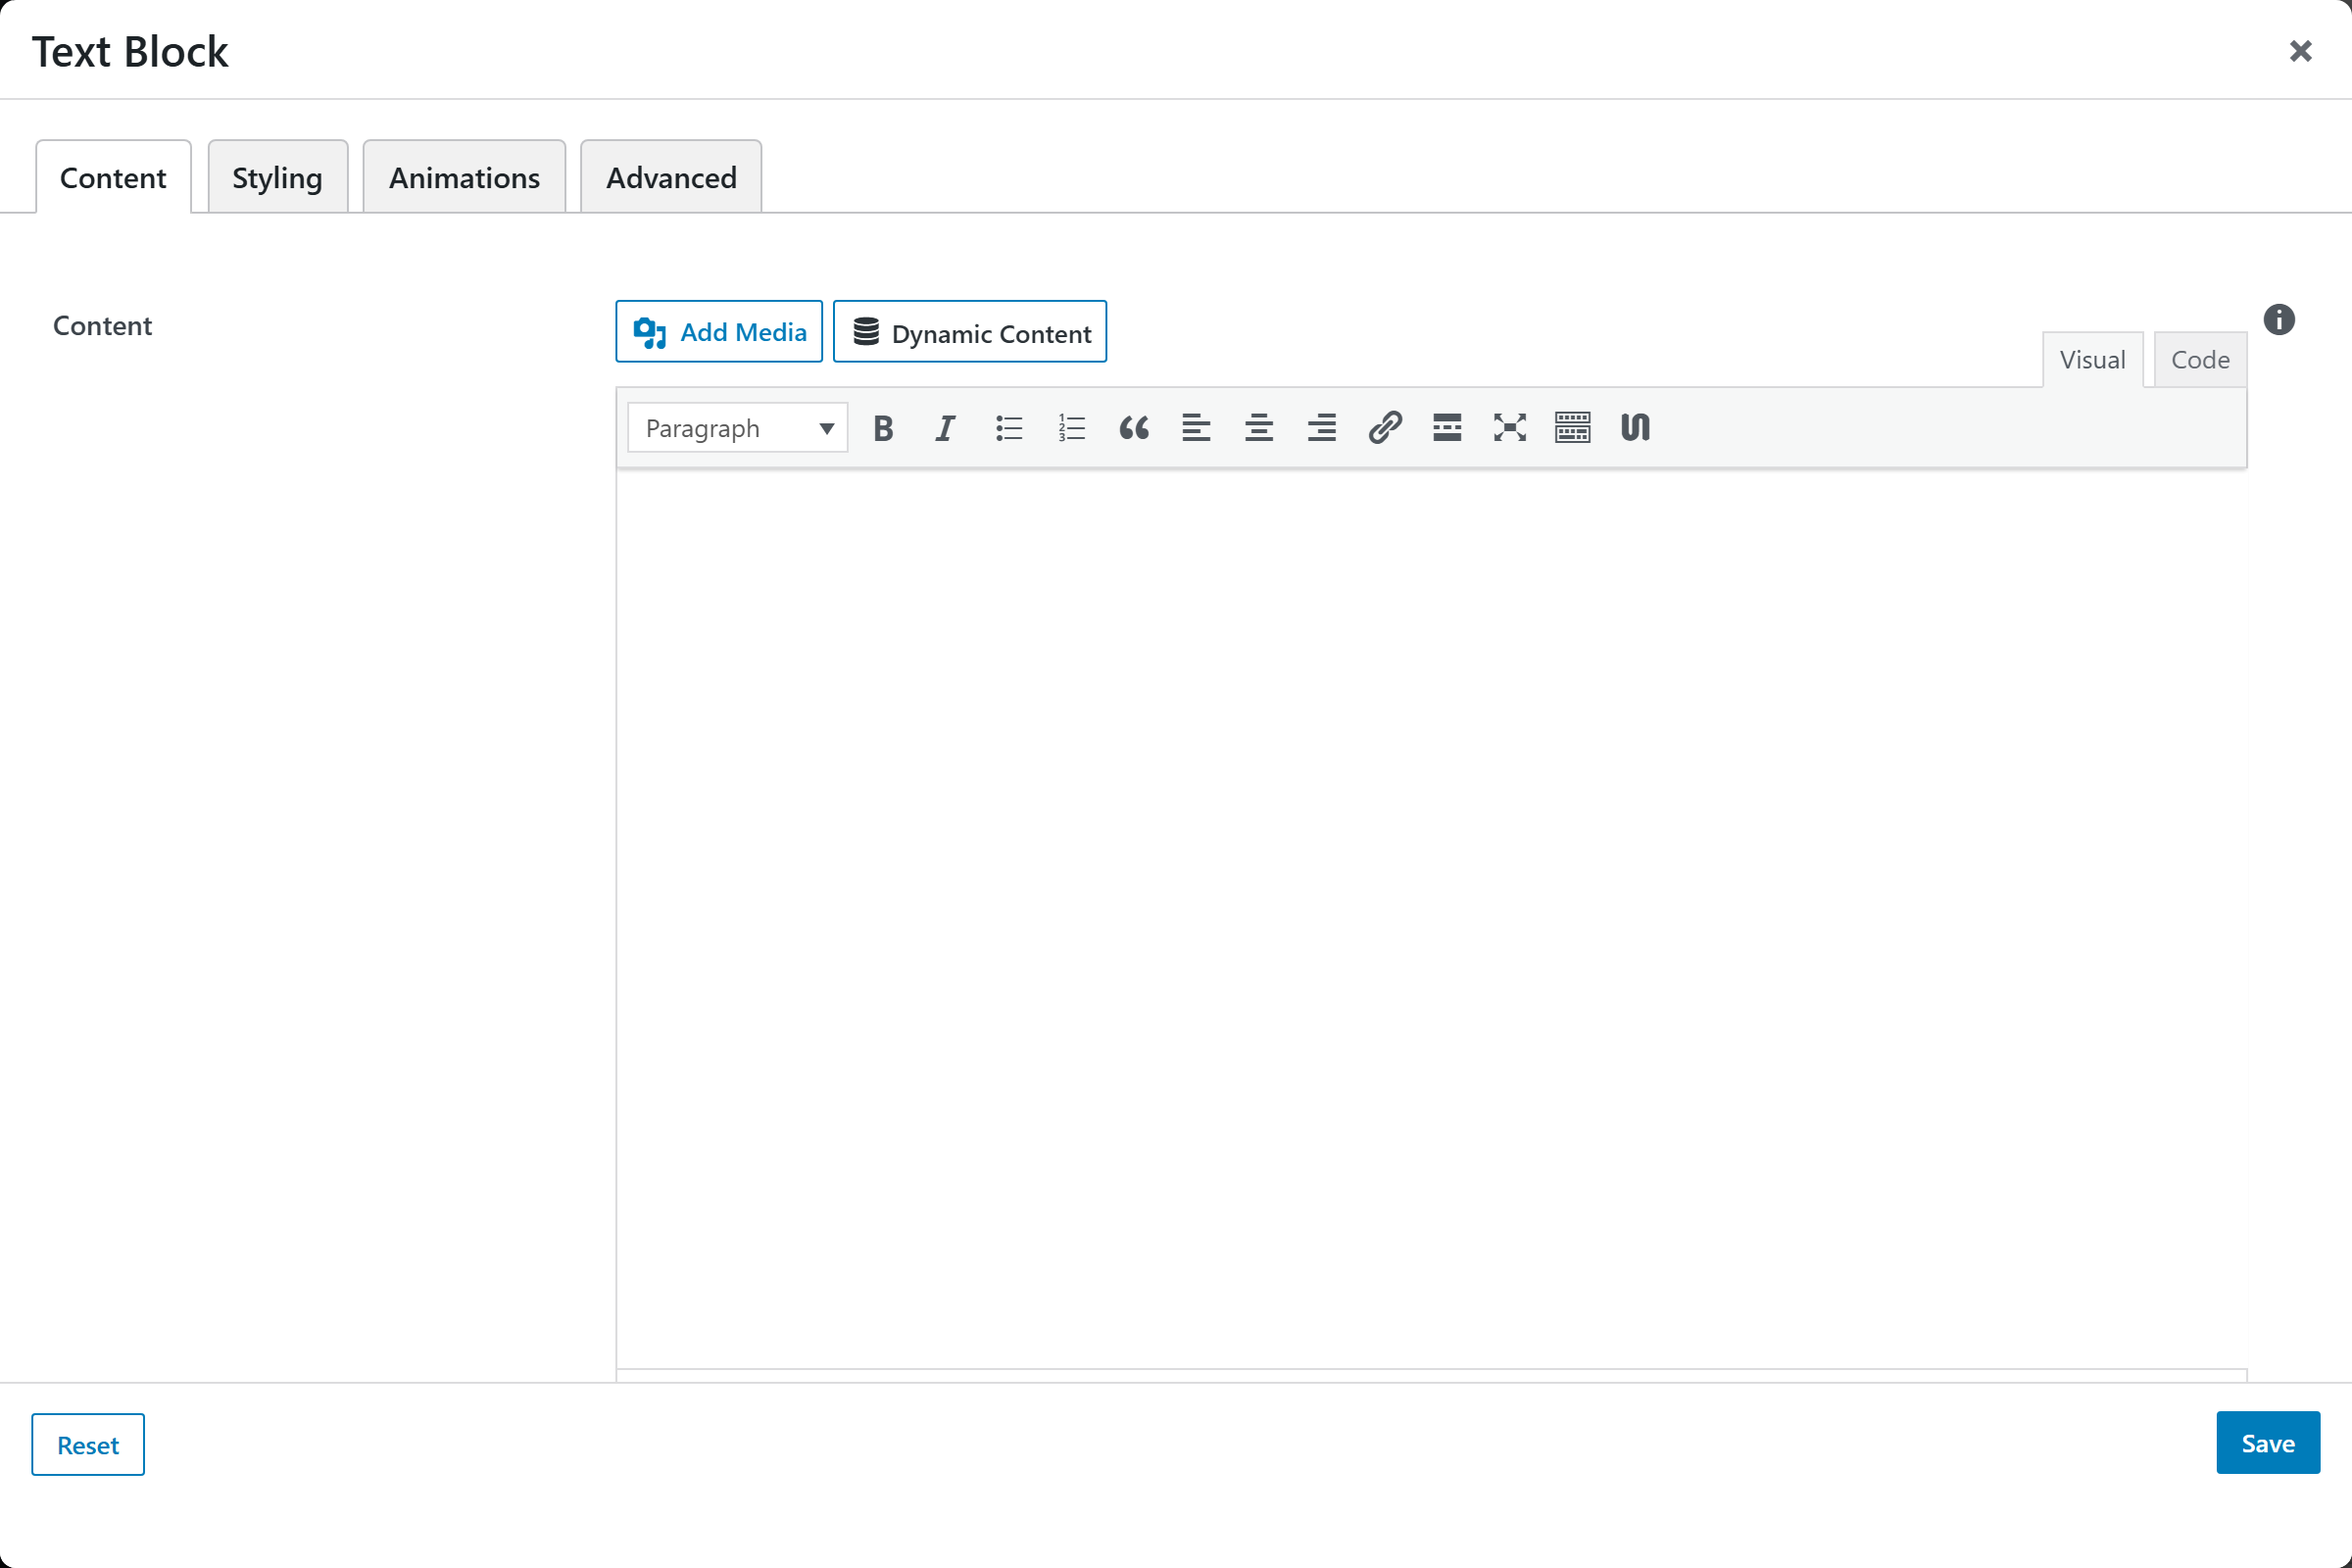
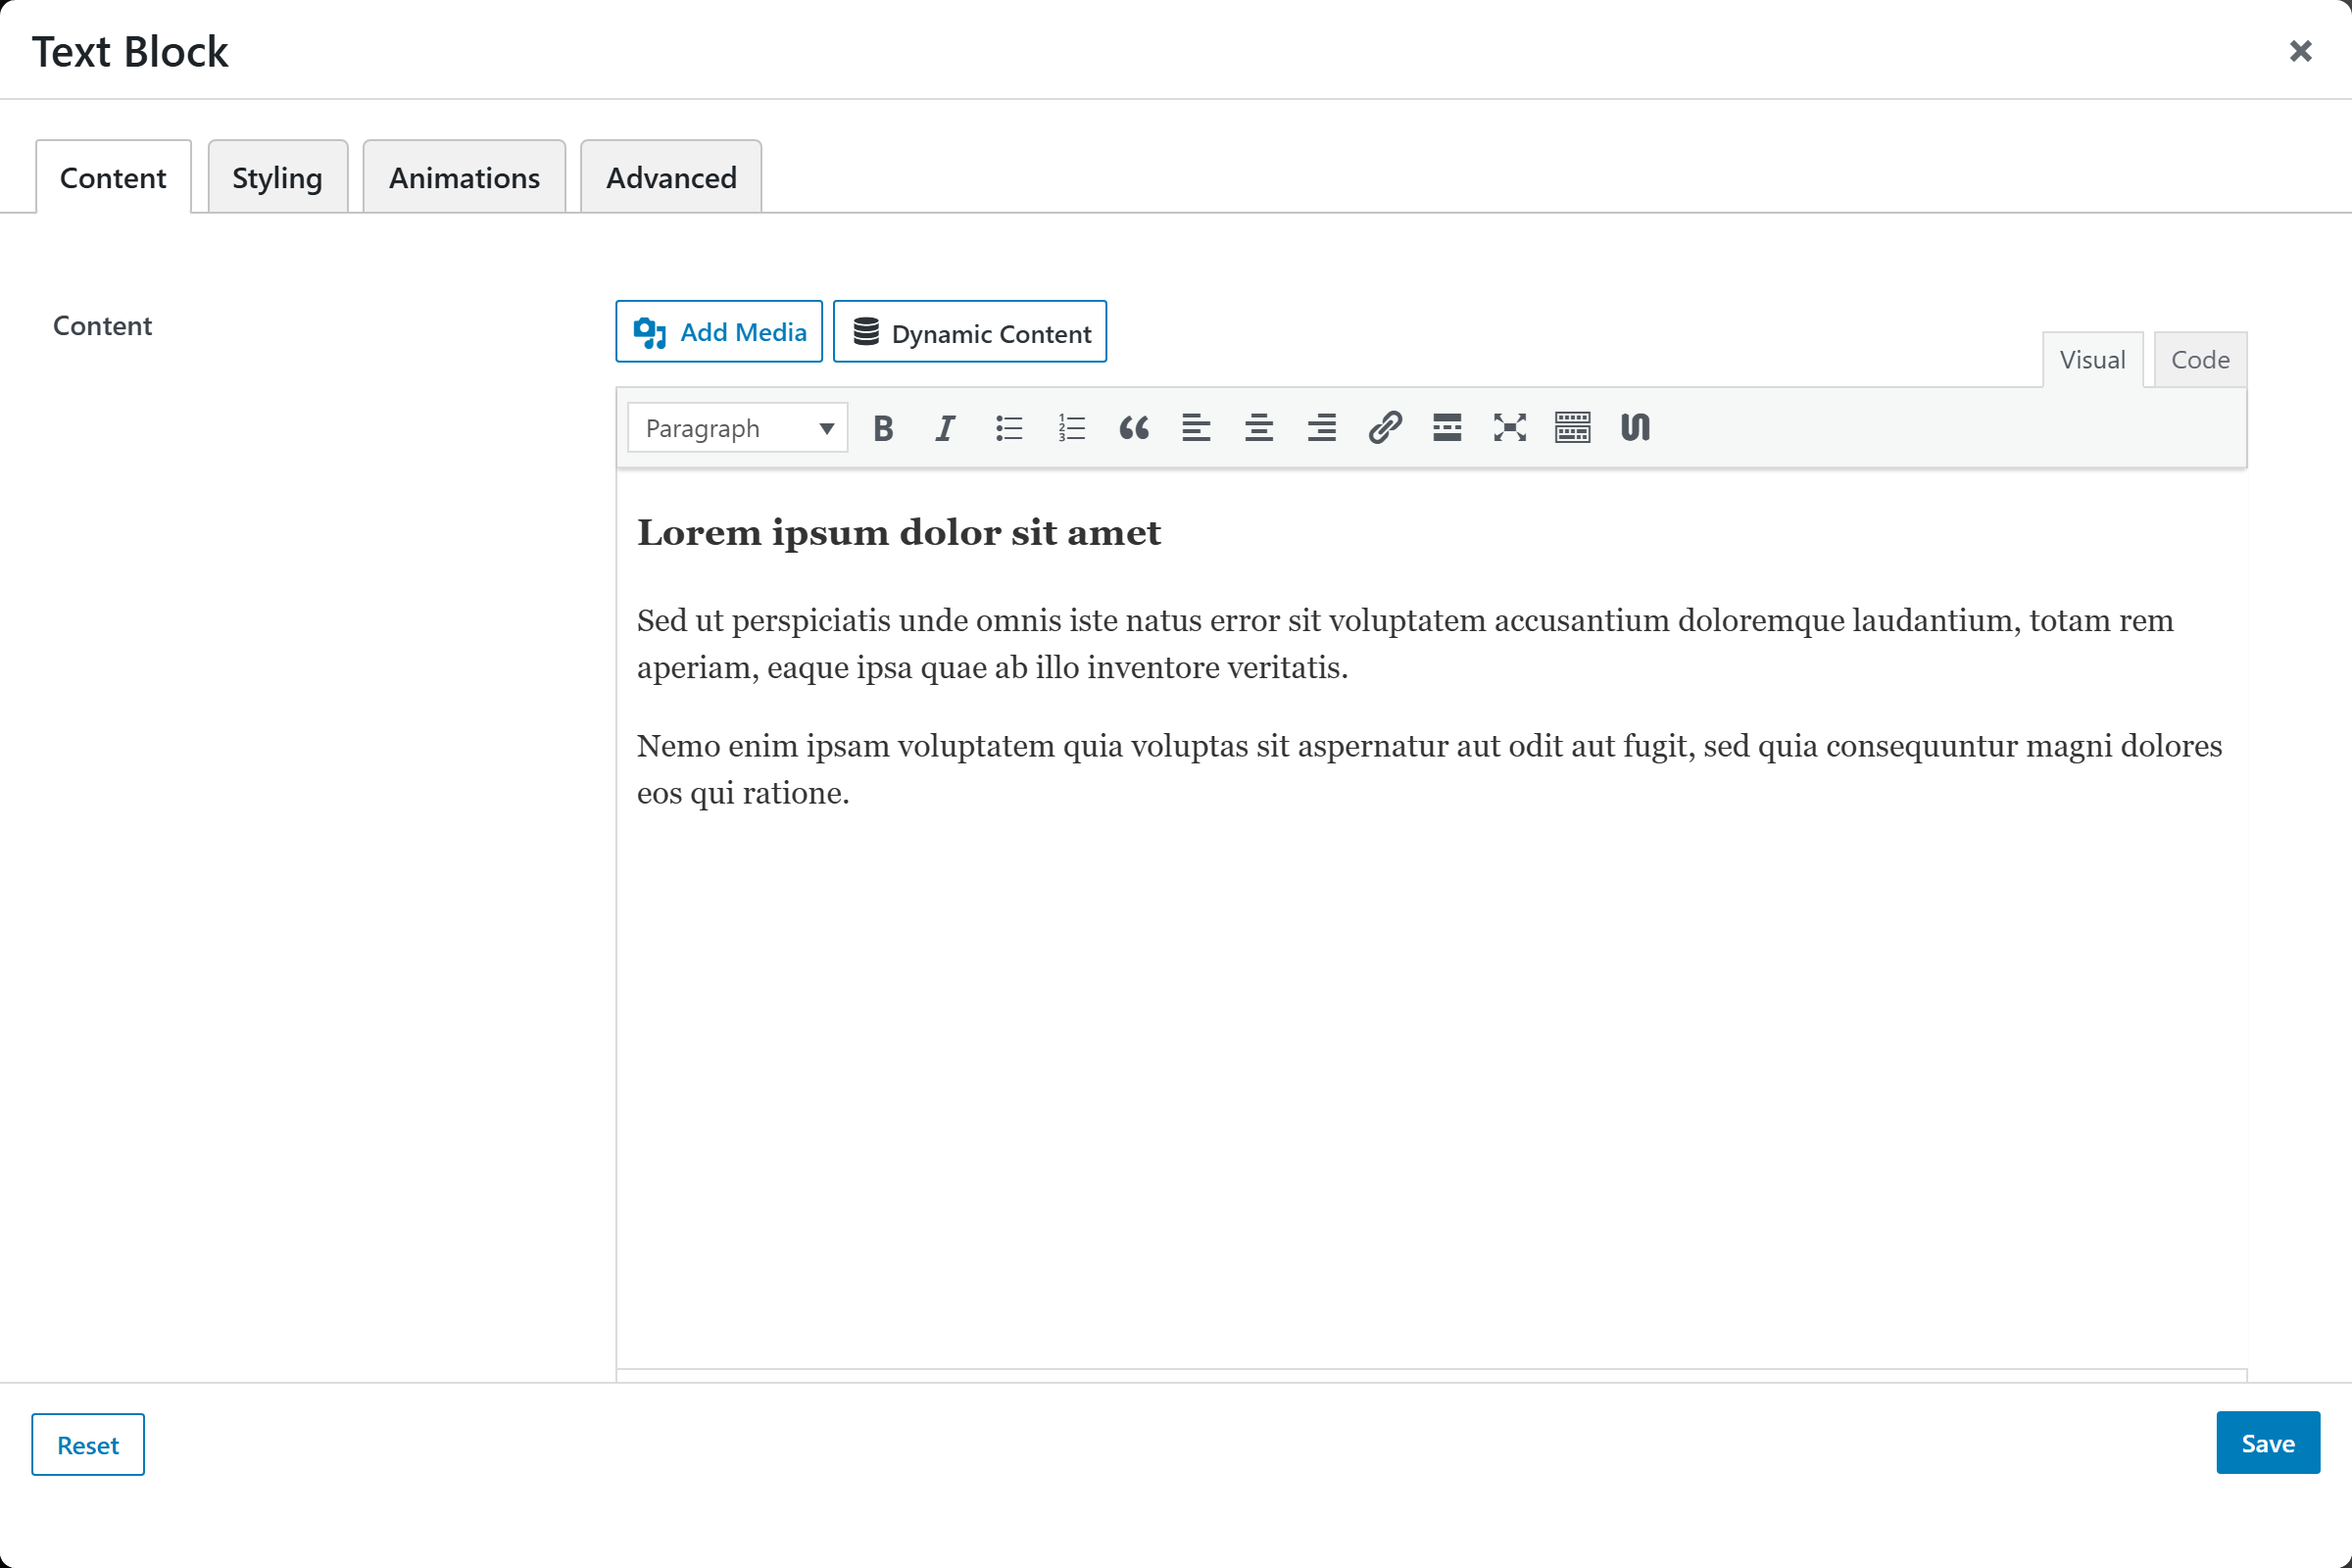
Text Block screenshots: drop Live editor, add Styling tab, fill panels with lipsum
- Remove the Live Page Editor screenshot (to revisit after theme setup).
- Capture the options panel per tab except Animations/Advanced (Content +
  Styling), with the WYSIWYG filled with lipsum so the panels show content.
- Keep the backend Page Builder canvas shot.

diff --git a/docs/shortcodes/content-elements/text-block.md b/docs/shortcodes/content-elements/text-block.md
@@ -19,14 +19,14 @@ Text Color, Background Color, and Margin & Padding.
 
 ## Screenshots
 
-**The options panel** — the Content tab with the WYSIWYG editor:
+**Content tab** — the WYSIWYG editor:
 
 ![Text Block options panel — the Content tab with the WYSIWYG editor](/img/shortcodes/text-block-content.png)
+
+**Styling tab:**
+
+![Text Block options panel — the Styling tab](/img/shortcodes/text-block-styling.png)
 
 **On the Page Builder canvas** — a Text Block with example content inside a Section:
 
 ![Text Block on the backend Page Builder canvas, showing example heading and paragraphs](/img/shortcodes/text-block-backend.png)
-
-**In the Live Page Editor** — the same Text Block edited on the live front end:
-
-![Text Block in the Live Page Editor with the toolbar and the element selected](/img/shortcodes/text-block-live.png)
